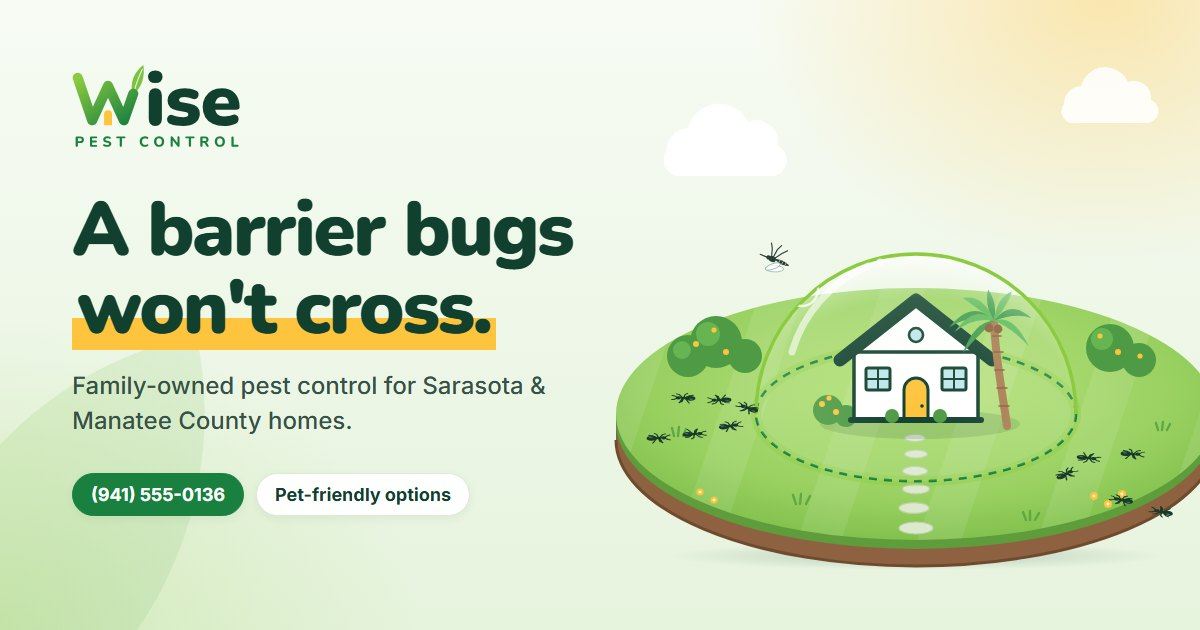
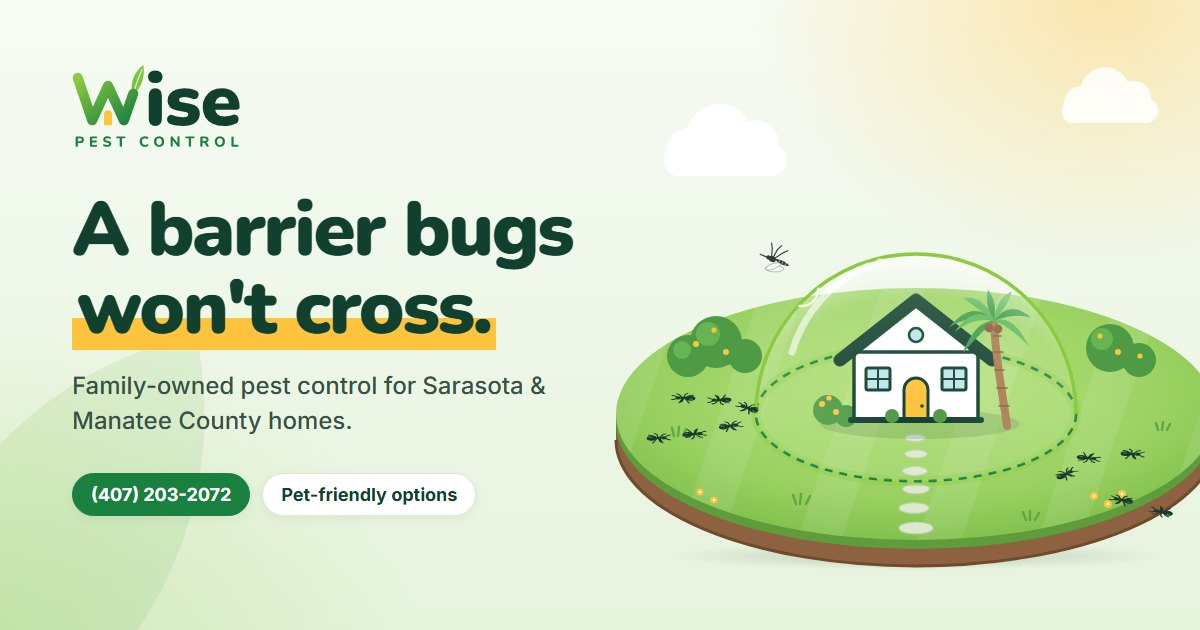
Go live on wisepestcontrol.site with the real phone number
- Phone is now (407) 203-2072 in the header, menu, hero, service area,
  quote section, footer, mobile call bar and JSON-LD. The social share
  image is re-rendered with it.
- Canonical, Open Graph and JSON-LD URLs point at
  https://wisepestcontrol.site/.
- netlify.toml publishes the root as-is, with security headers and
  image caching.
- README links the live site and no longer lists the phone number as
  a placeholder.

Changed region(s): [[0.0617, 0.754, 0.4008, 0.8143]]

diff --git a/index.html b/index.html
@@ -5,15 +5,15 @@
   <meta name="viewport" content="width=device-width, initial-scale=1">
   <title>Pest Control in Sarasota &amp; Bradenton, FL | Wise Pest Control</title>
   <meta name="description" content="Family-owned pest control for Sarasota and Manatee County homes. A perimeter barrier that keeps ants, roaches and spiders out, pet-friendly options, and free re-service between visits.">
-  <link rel="canonical" href="https://wisepestcontrolfl.com/">
+  <link rel="canonical" href="https://wisepestcontrol.site/">
   <meta name="theme-color" content="#12402F">
 
   <meta property="og:type" content="website">
   <meta property="og:site_name" content="Wise Pest Control">
   <meta property="og:title" content="Wise Pest Control | A barrier bugs won't cross">
   <meta property="og:description" content="Family-owned pest control for Sarasota and Manatee County. Pet-friendly options, free re-service, no long-term contracts.">
-  <meta property="og:url" content="https://wisepestcontrolfl.com/">
-  <meta property="og:image" content="https://wisepestcontrolfl.com/images/og-image.jpg">
+  <meta property="og:url" content="https://wisepestcontrol.site/">
+  <meta property="og:image" content="https://wisepestcontrol.site/images/og-image.jpg">
   <meta property="og:image:width" content="1200">
   <meta property="og:image:height" content="630">
   <meta name="twitter:card" content="summary_large_image">
@@ -33,10 +33,10 @@
     "@context": "https://schema.org",
     "@type": "LocalBusiness",
     "name": "Wise Pest Control",
-    "url": "https://wisepestcontrolfl.com/",
-    "logo": "https://wisepestcontrolfl.com/images/logo.svg",
-    "image": "https://wisepestcontrolfl.com/images/og-image.jpg",
-    "telephone": "+1-941-555-0136",
+    "url": "https://wisepestcontrol.site/",
+    "logo": "https://wisepestcontrol.site/images/logo.svg",
+    "image": "https://wisepestcontrol.site/images/og-image.jpg",
+    "telephone": "+1-407-203-2072",
     "email": "hello@wisepestcontrolfl.com",
     "priceRange": "$$",
     "address": { "@type": "PostalAddress", "addressLocality": "Sarasota", "addressRegion": "FL", "addressCountry": "US" },
@@ -103,14 +103,14 @@
       </ul>
       <div class="nav__cta">
         <a class="btn btn--primary btn--lg" href="#quote">Get a Free Quote</a>
-        <a class="btn btn--outline btn--lg" href="tel:+19415550136"><svg class="icon"><use href="#i-phone"/></svg>(941) 555-0136</a>
+        <a class="btn btn--outline btn--lg" href="tel:+14072032072"><svg class="icon"><use href="#i-phone"/></svg>(407) 203-2072</a>
       </div>
     </nav>
 
     <div class="header__actions">
-      <a class="header__phone" href="tel:+19415550136">
+      <a class="header__phone" href="tel:+14072032072">
         <span class="header__phone-icon"><svg class="icon"><use href="#i-phone"/></svg></span>
-        <span><small>Call or text</small>(941) 555-0136</span>
+        <span><small>Call or text</small>(407) 203-2072</span>
       </a>
       <a class="btn btn--primary header__cta" href="#quote">Free Quote</a>
       <button class="nav-toggle" type="button" aria-expanded="false" aria-controls="site-nav" aria-label="Open menu">
@@ -137,7 +137,7 @@
         </ul>
         <div class="hero__ctas">
           <a class="btn btn--primary btn--lg" href="#quote"><span><span class="xs-hide">Get a </span>Free Quote</span><svg class="icon xs-hide"><use href="#i-arrow"/></svg></a>
-          <a class="btn btn--white btn--lg" href="tel:+19415550136"><svg class="icon"><use href="#i-phone"/></svg><span class="xs-hide">(941) 555-0136</span><span class="xs-show">Call Now</span></a>
+          <a class="btn btn--white btn--lg" href="tel:+14072032072"><svg class="icon"><use href="#i-phone"/></svg><span class="xs-hide">(407) 203-2072</span><span class="xs-show">Call Now</span></a>
         </div>
       </div>
 
@@ -514,7 +514,7 @@
         <p class="eyebrow">Where we work</p>
         <h2>Serving Sarasota &amp; Manatee County</h2>
         <p>Our techs live and work on the Suncoast, from Palmetto down to Englewood. Don't see your town? Give us a call. We probably cover it.</p>
-        <a class="btn btn--outline btn--lg" href="tel:+19415550136"><svg class="icon"><use href="#i-phone"/></svg>Call to check your area</a>
+        <a class="btn btn--outline btn--lg" href="tel:+14072032072"><svg class="icon"><use href="#i-phone"/></svg>Call to check your area</a>
       </div>
       <ul class="areas__list" data-reveal style="--d:1">
         <li><svg class="icon"><use href="#i-pin"/></svg>Sarasota</li>
@@ -581,7 +581,7 @@
           <li><svg class="icon"><use href="#i-paw"/></svg>Pet-friendly options on every plan</li>
           <li><svg class="icon"><use href="#i-refresh"/></svg>Free re-service between visits</li>
         </ul>
-        <a class="quote__phone" href="tel:+19415550136"><svg class="icon"><use href="#i-phone"/></svg><span><small>Rather talk it through?</small>(941) 555-0136</span></a>
+        <a class="quote__phone" href="tel:+14072032072"><svg class="icon"><use href="#i-phone"/></svg><span><small>Rather talk it through?</small>(407) 203-2072</span></a>
       </div>
 
       <div class="quote__card" data-reveal style="--d:1">
@@ -669,7 +669,7 @@
     <div>
       <h3>Contact</h3>
       <ul class="footer__contact">
-        <li><svg class="icon"><use href="#i-phone"/></svg><a href="tel:+19415550136">(941) 555-0136</a></li>
+        <li><svg class="icon"><use href="#i-phone"/></svg><a href="tel:+14072032072">(407) 203-2072</a></li>
         <li><svg class="icon"><use href="#i-mail"/></svg><a href="mailto:hello@wisepestcontrolfl.com">hello@wisepestcontrolfl.com</a></li>
         <li><svg class="icon"><use href="#i-clock"/></svg><span>Mon–Sat, 7am–6pm</span></li>
         <li><svg class="icon"><use href="#i-pin"/></svg><span>Sarasota, Florida</span></li>
@@ -683,7 +683,7 @@
 </footer>
 
 <div class="mobile-bar">
-  <a class="btn btn--dark" href="tel:+19415550136"><svg class="icon"><use href="#i-phone"/></svg>Call now</a>
+  <a class="btn btn--dark" href="tel:+14072032072"><svg class="icon"><use href="#i-phone"/></svg>Call now</a>
   <a class="btn btn--primary" href="#quote">Free quote</a>
 </div>
 

diff --git a/js/main.js b/js/main.js
@@ -437,7 +437,7 @@
     const phone = form.elements.phone;
     const zip = form.elements.zip;
 
-    // Format US numbers as the user types: (941) 555-0136
+    // Format US numbers as the user types: (407) 203-2072
     phone.addEventListener("input", () => {
       const d = phone.value.replace(/\D/g, "").replace(/^1/, "").slice(0, 10);
       phone.value = d.length > 6 ? `(${d.slice(0, 3)}) ${d.slice(3, 6)}-${d.slice(6)}`

diff --git a/README.md b/README.md
@@ -2,6 +2,8 @@
 
 Marketing website for a Florida pest control company, built as a portfolio piece: logo, brand palette and a one-page site. Plain HTML, CSS and JavaScript, no build step and no dependencies.
 
+Live at **[wisepestcontrol.site](https://wisepestcontrol.site)**, hosted on Netlify.
+
 ![Wise Pest Control](images/og-image.jpg)
 
 ## The brand
@@ -42,10 +44,11 @@ css/styles.css      tokens → base → layout → components → sections
 js/main.js          mobile menu, scroll reveal, active nav link, hero scene, quote form
 images/             logo, favicons, social share image
 brand/              logo concept sheet from the exploration round
+netlify.toml        Netlify config: publish the root as-is, security headers
 ```
 
 The nav links jump to sections on the one page; there are no separate subpages.
 
 ## About the content
 
-The business name is real; everything else is placeholder copy for the demo. The phone number, email, reviews, ratings, prices, home counts and claims such as "licensed & insured" are invented and should be replaced before this is used as a live business site. The copy says "pet-friendly options" rather than "safe", because pest control advertising shouldn't claim that treatments are safe. The quote form validates and shows a confirmation, but sends nothing: there's a marked spot in `js/main.js` for connecting a form service.
+The business name and phone number are real; everything else is placeholder copy for the demo. The email, reviews, ratings, prices, home counts and claims such as "licensed & insured" are invented and should be replaced before this is used as a live business site. The copy says "pet-friendly options" rather than "safe", because pest control advertising shouldn't claim that treatments are safe. The quote form validates and shows a confirmation, but sends nothing: there's a marked spot in `js/main.js` for connecting a form service.
